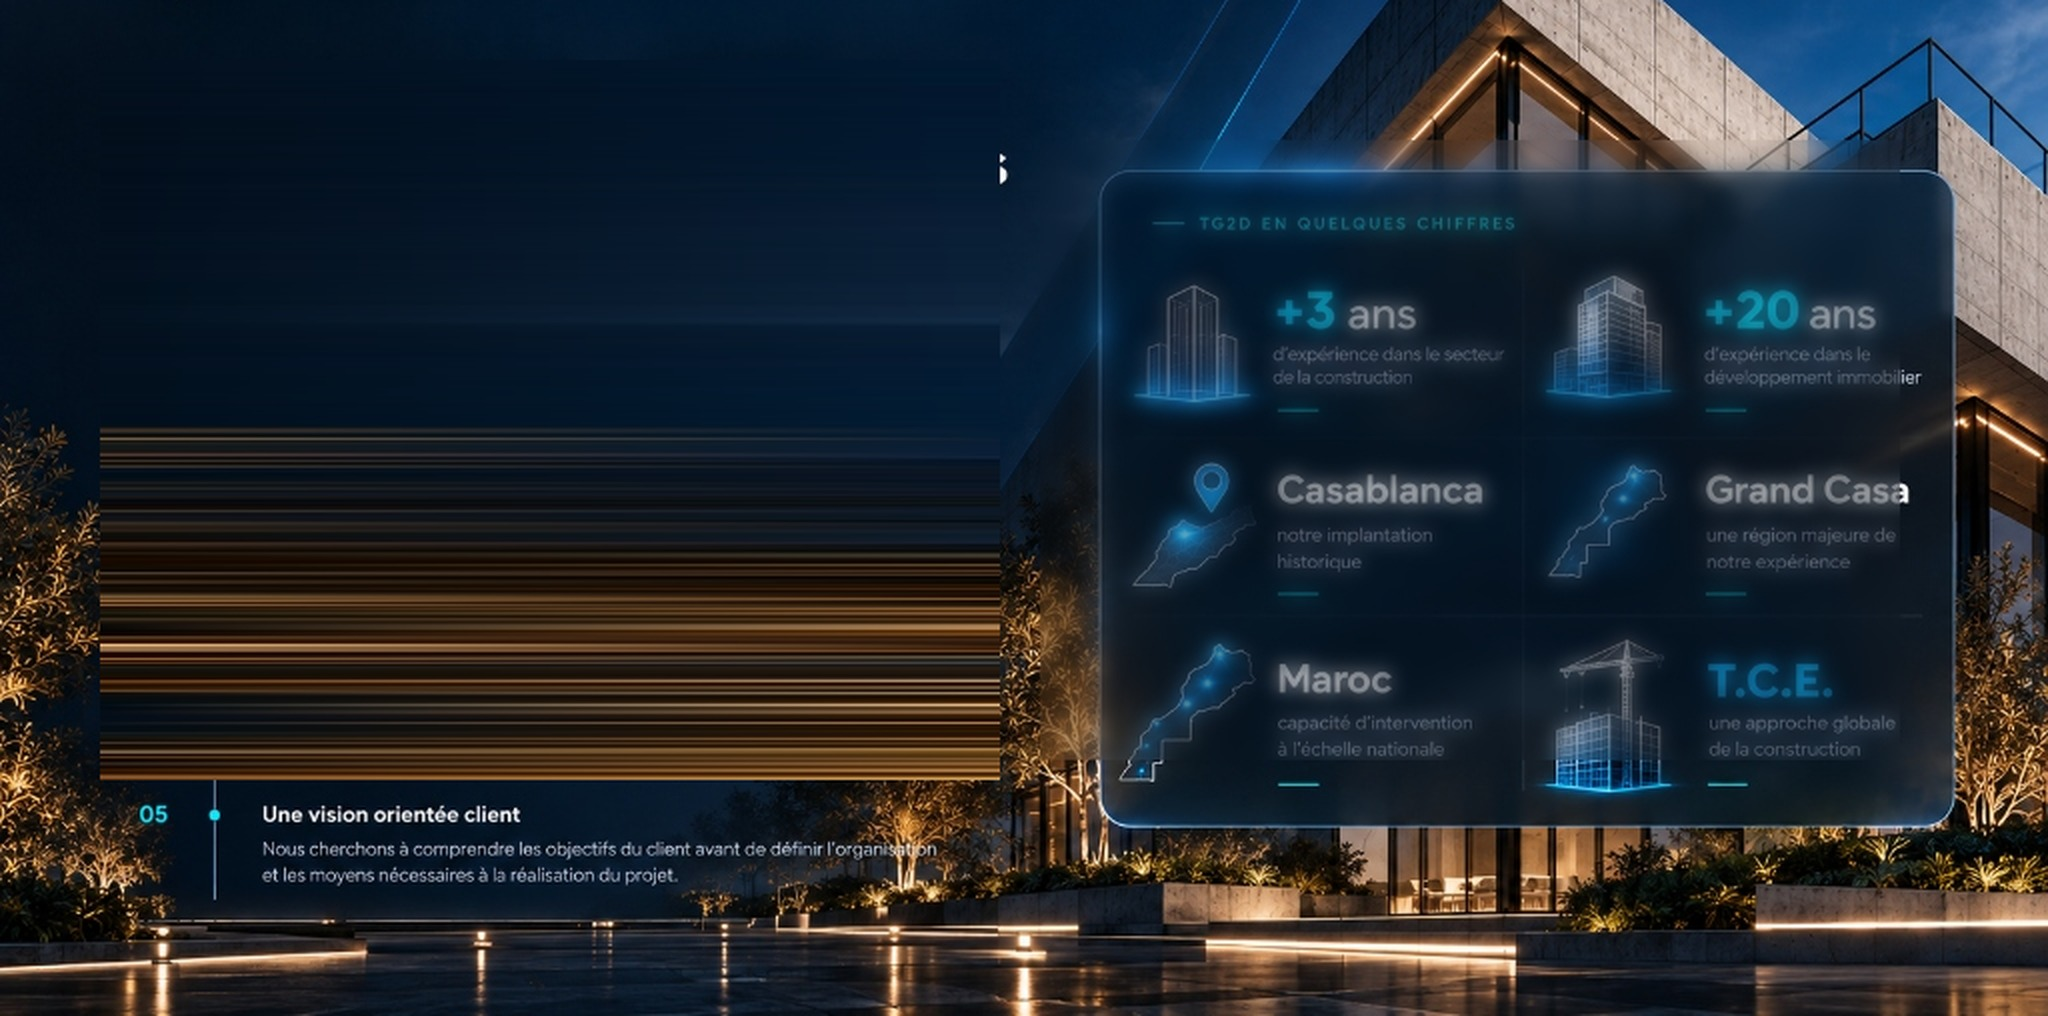
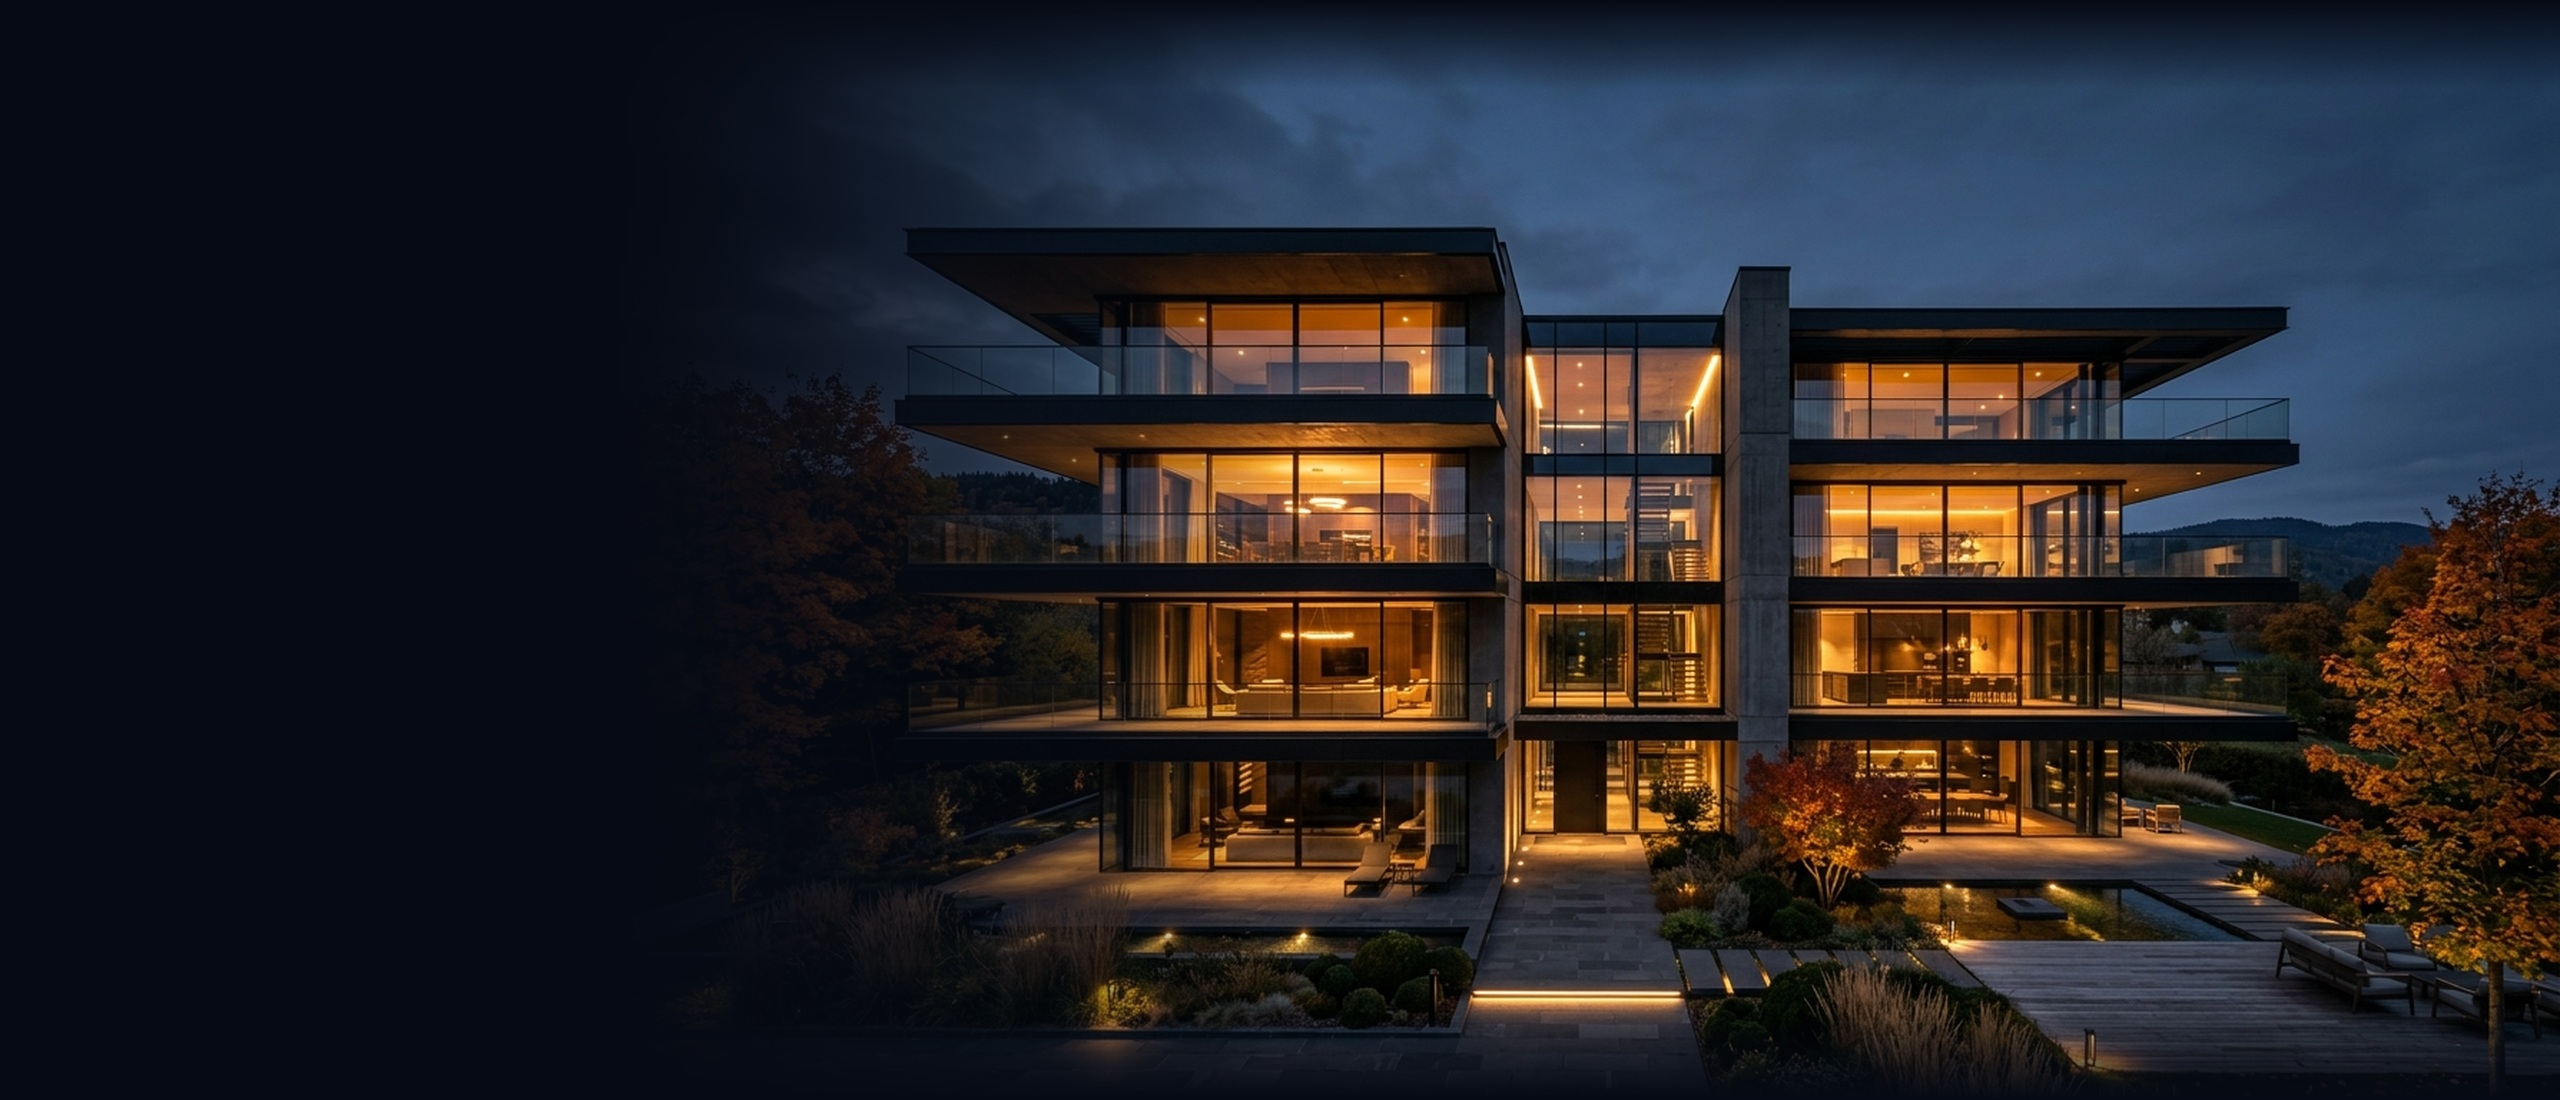
fix(pourquoi): replace background with pristine clean architecture photography removing ghosted card and smudges

diff --git a/styles.css b/styles.css
@@ -6198,7 +6198,7 @@ main .fleet-editorial-layout .spec-key,
   position: relative;
   width: 100%;
   padding: 100px 0 120px;
-  background: #060A14 url('assets/images/pourquoi-bg-architecture.jpg?v=2026') center top / cover no-repeat;
+  background: #060A14 url('assets/images/pourquoi-bg-architecture.jpg?v=clean_hq_2026') right center / cover no-repeat;
   color: #FFFFFF;
   overflow: hidden;
 }
@@ -6208,7 +6208,7 @@ main .fleet-editorial-layout .spec-key,
   content: '';
   position: absolute;
   inset: 0;
-  background: linear-gradient(90deg, rgba(6, 10, 20, 0.88) 0%, rgba(6, 10, 20, 0.72) 45%, rgba(6, 10, 20, 0.25) 100%);
+  background: linear-gradient(90deg, #060A14 0%, rgba(6, 10, 20, 0.94) 38%, rgba(6, 10, 20, 0.62) 65%, rgba(6, 10, 20, 0.15) 100%);
   pointer-events: none;
   z-index: 1;
 }

diff --git a/index.html b/index.html
@@ -60,7 +60,7 @@
   <link rel="preconnect" href="https://fonts.gstatic.com" crossorigin />
   <link href="https://fonts.googleapis.com/css2?family=Plus+Jakarta+Sans:wght@300;400;500;600;700;800&family=JetBrains+Mono:wght@400;500;600&display=swap" rel="stylesheet" />
 
-  <link rel="stylesheet" href="styles.css?v=2026_hd2" />
+  <link rel="stylesheet" href="styles.css?v=2026_clean_v3" />
 </head>
 <body>
 
